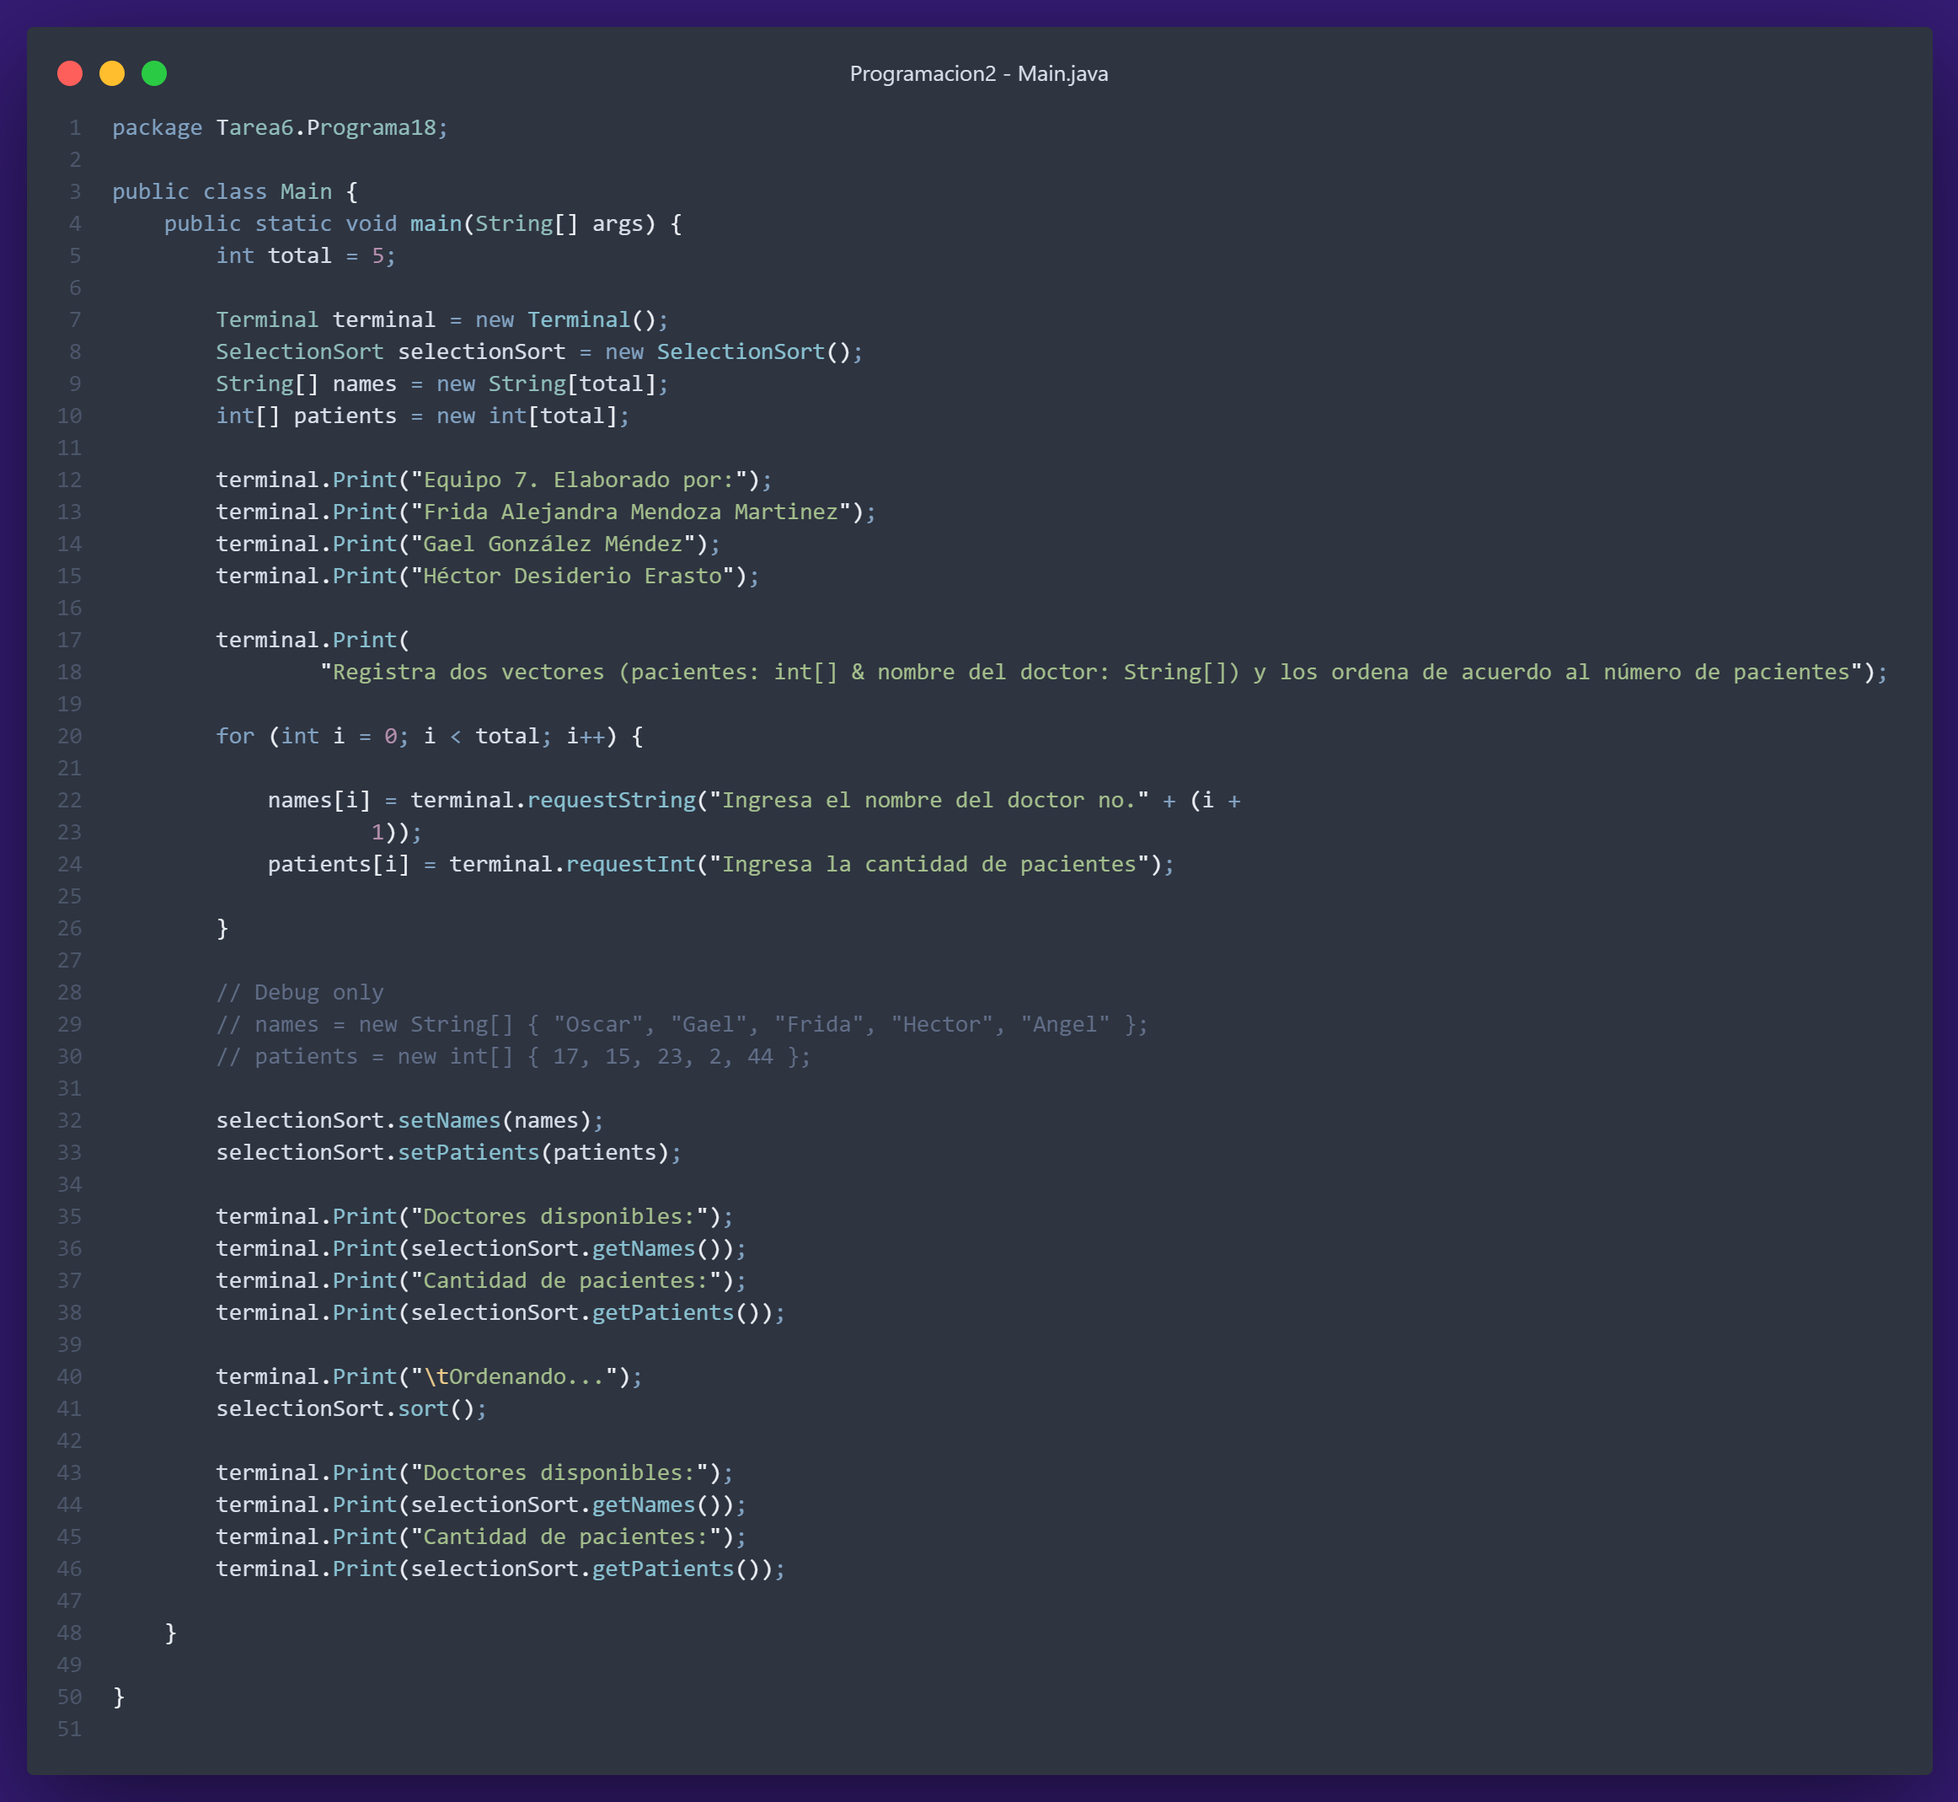
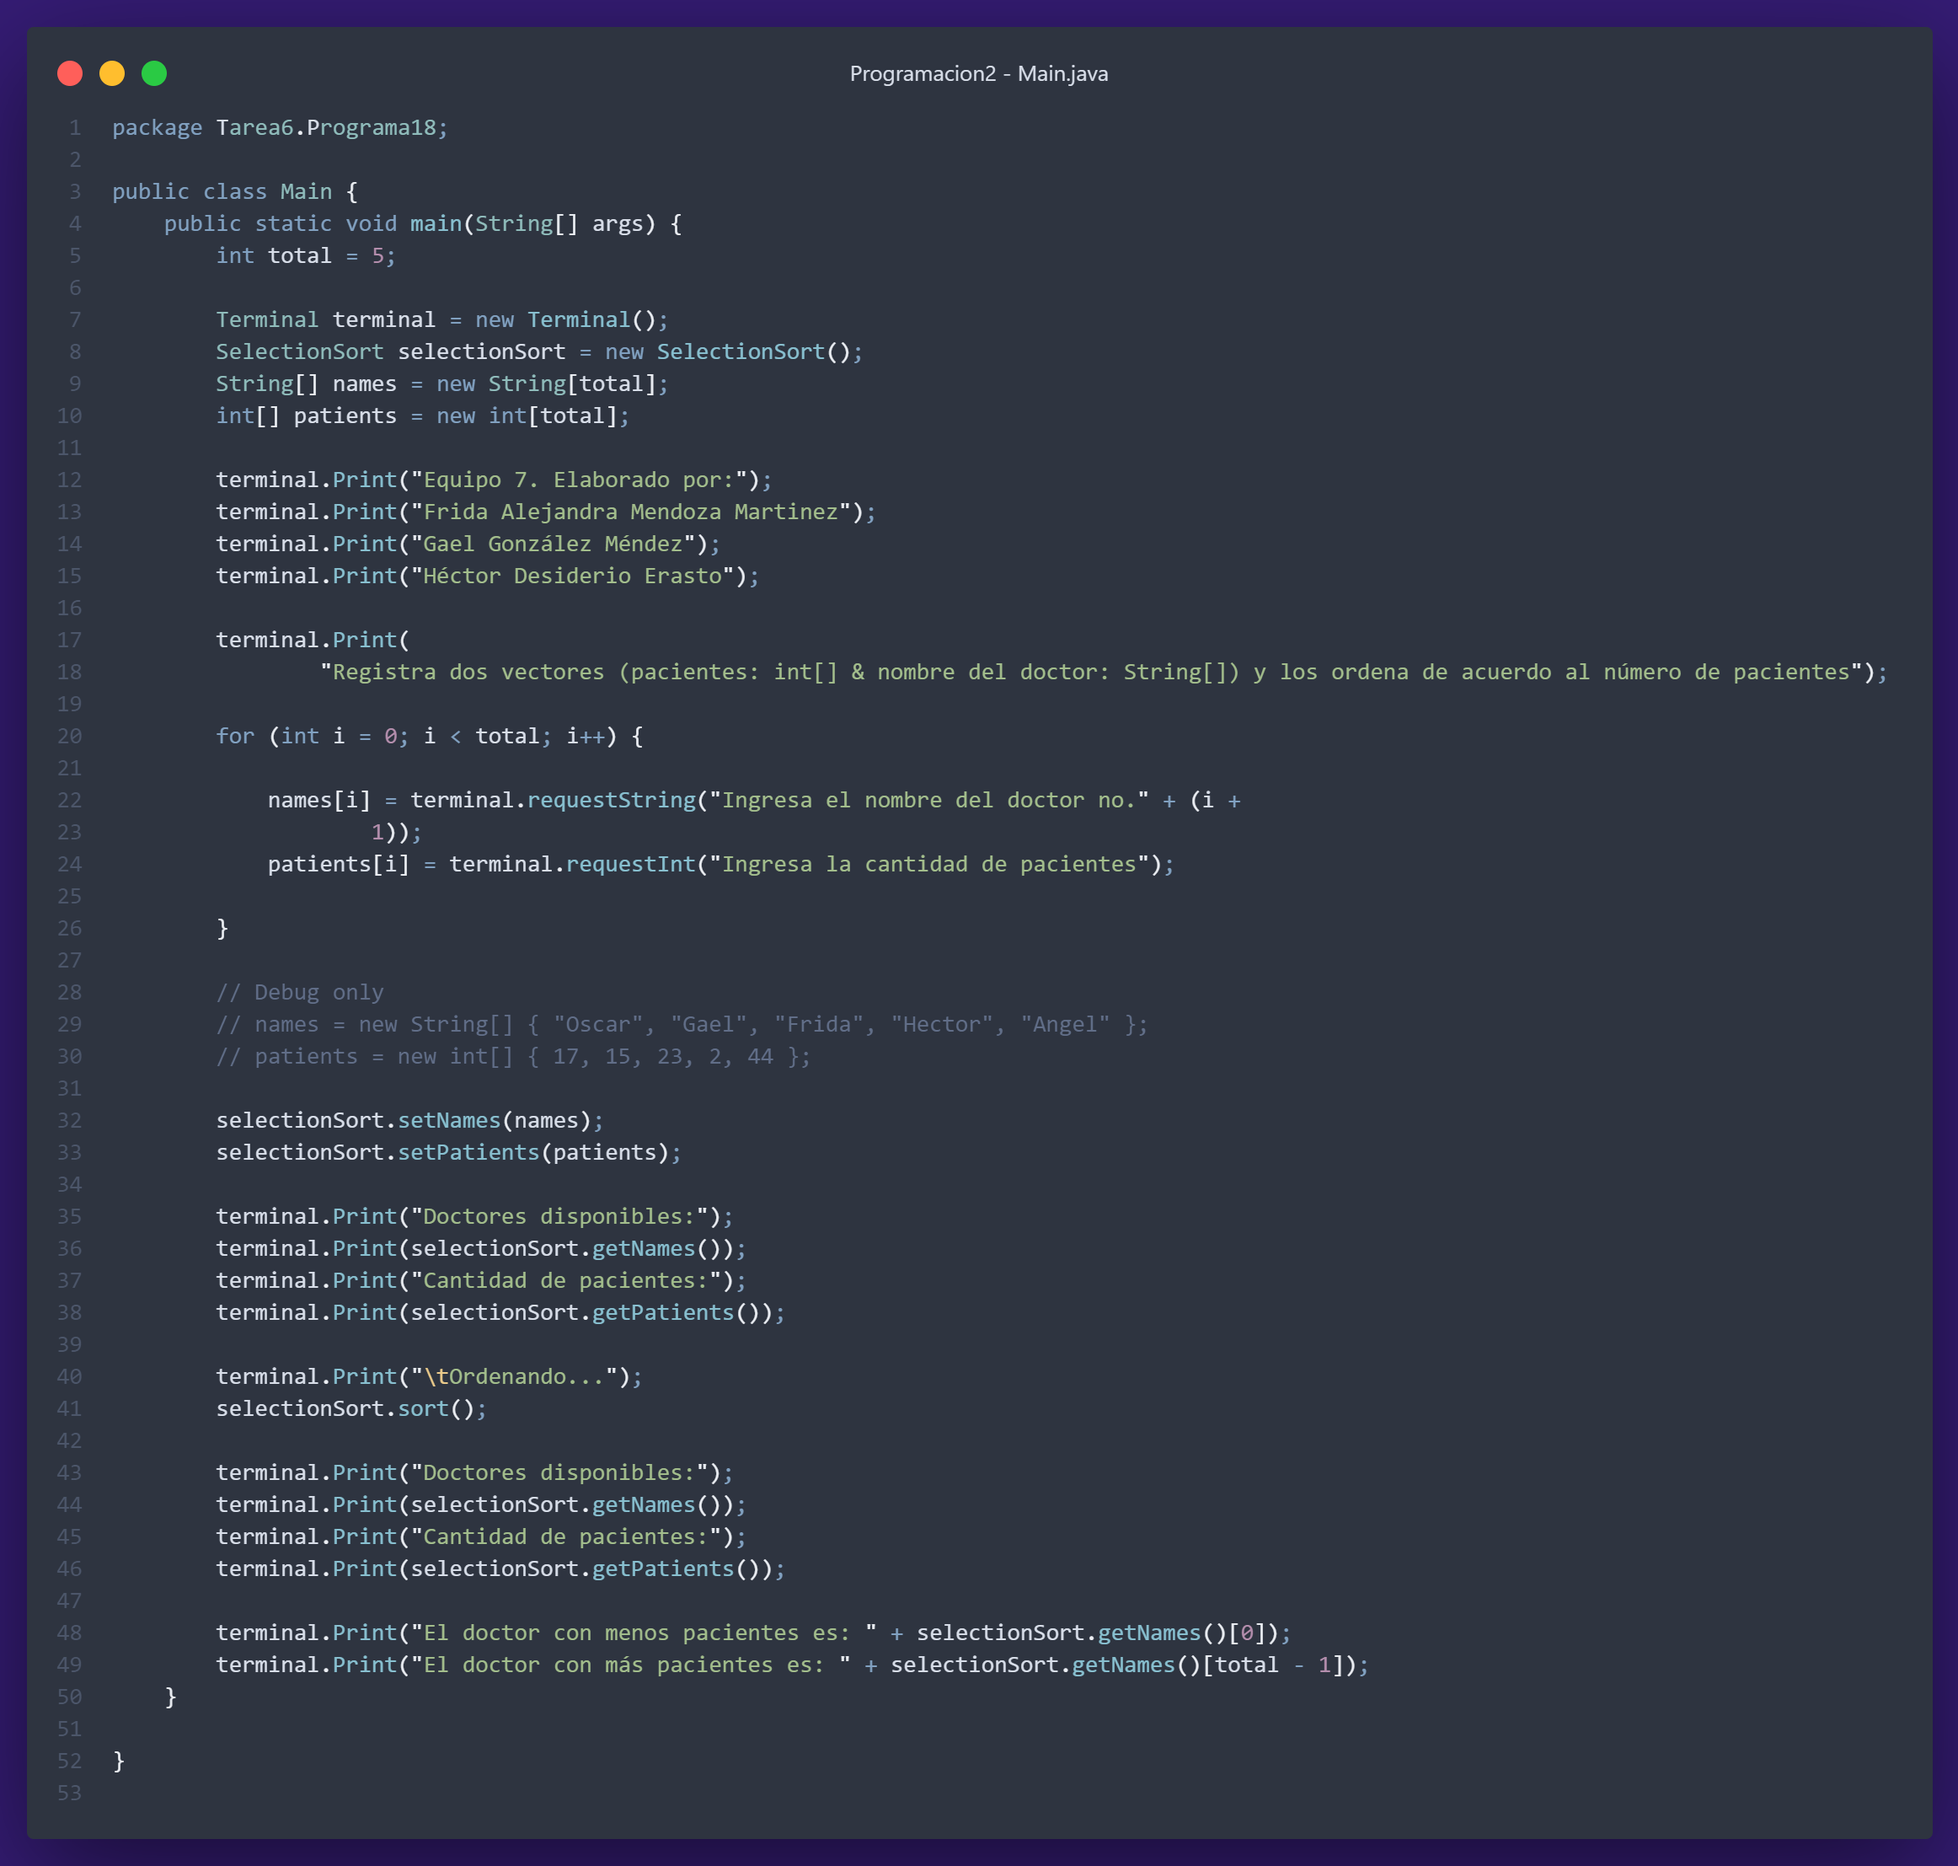
Corrección

diff --git a/Tarea6/Programa18/Main.java b/Tarea6/Programa18/Main.java
@@ -45,6 +45,8 @@ public class Main {
         terminal.Print("Cantidad de pacientes:");
         terminal.Print(selectionSort.getPatients());
 
+        terminal.Print("El doctor con menos pacientes es: " + selectionSort.getNames()[0]);
+        terminal.Print("El doctor con más pacientes es: " + selectionSort.getNames()[total - 1]);
     }
 
 }
